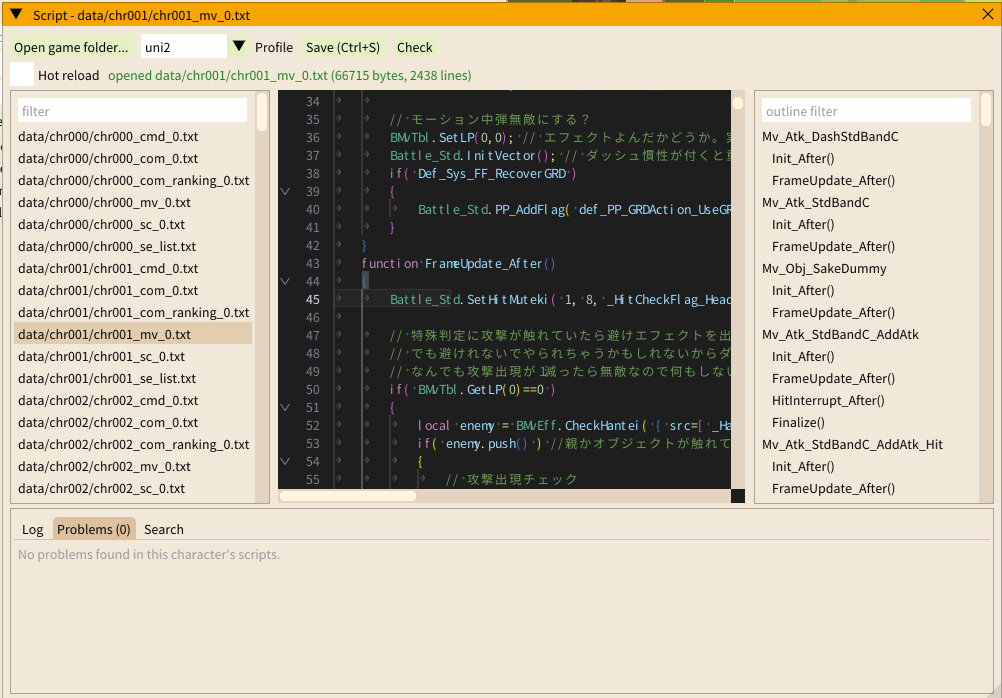
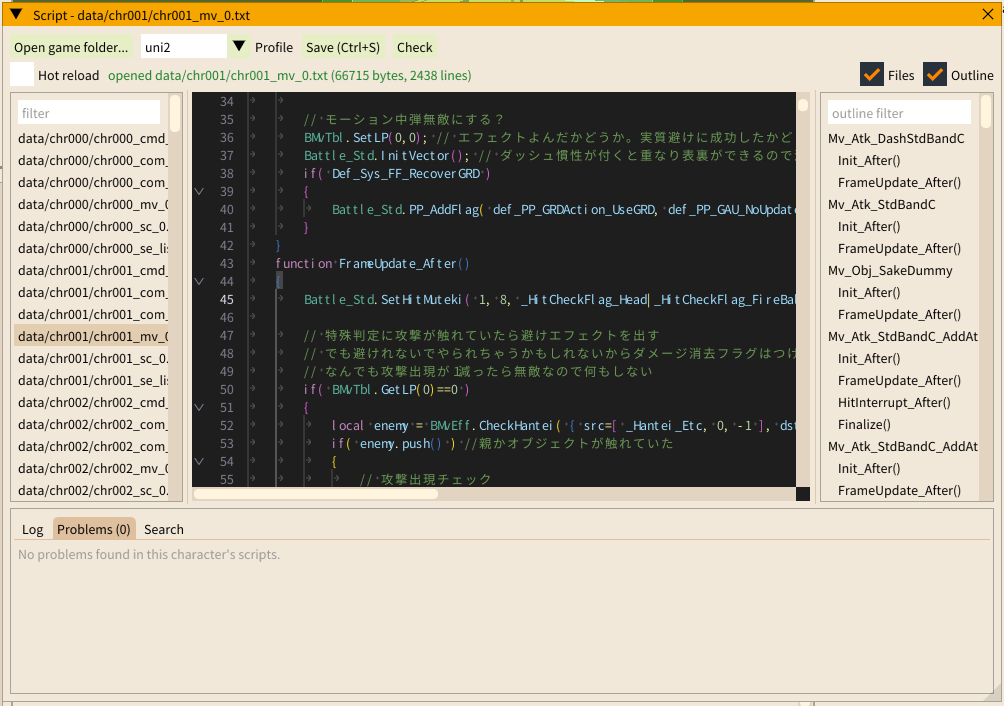
docs: layout sweep round 2 status, before/after sheets, PartSet shot script; showcase crop boxes for centred windows, feature shots re-cropped

Changed region(s): [[0.0, 0.0, 1.0, 1.0], [0.0309, 0.0, 0.2784, 0.0602]]

diff --git a/docs/showcase_2026-10-16/scripts/ui/crop_features.py b/docs/showcase_2026-10-16/scripts/ui/crop_features.py
@@ -1,19 +1,20 @@
 #!/usr/bin/env python3
 """crop_features.py <shot dir> <features dir>: cut each feature window out of the full-frame --ui-script capture.
-The boxes are the windows' rects in the 1884x961 client area that run_features.sh produces (ab_shot.sh 1900x1000 layout)."""
+The boxes are the windows' rects in the 1884x961 client area that run_features.sh produces (ab_shot.sh 1900x1000 layout).
+Since ui::FitNextWindow (layout sweep) the tool windows open centred on the work area; the pcmod export window keeps its spot."""
 import sys
 from PIL import Image
 
-BOXES = {   # name: (left, top, right, bottom); the squirrel hover box also covers the tooltip, the game link box the sprite
-    'feat_squirrel_hover': (58, 58, 1130, 756),
-    'feat_squirrel_problems': (58, 58, 1060, 756),
-    'feat_stage3d_uni2_align': (442, 100, 1442, 861),
-    'feat_stage3d_mbtl_align': (442, 100, 1442, 861),
-    'feat_cgm_uni2_palettes': (58, 58, 1261, 880),
-    'feat_cgm_uni2_textures': (58, 58, 1261, 880),
-    'feat_gamelink_panel': (60, 58, 1100, 700),
-    'pcmod_export_window': (98, 68, 1081, 950),
-    'pcmod_export_done': (98, 68, 1081, 950),
+BOXES = {   # name: (left, top, right, bottom); the squirrel hover box also covers the tooltip, the game link box is the panel only (it no longer sits over the sprite)
+    'feat_squirrel_hover': (440, 128, 1444, 834),
+    'feat_squirrel_problems': (440, 128, 1444, 834),
+    'feat_stage3d_uni2_align': (440, 98, 1444, 864),
+    'feat_stage3d_mbtl_align': (440, 98, 1444, 864),
+    'feat_cgm_uni2_palettes': (340, 68, 1544, 894),
+    'feat_cgm_uni2_textures': (340, 68, 1544, 894),
+    'feat_gamelink_panel': (620, 218, 1264, 742),
+    'pcmod_export_window': (98, 68, 1081, 956),
+    'pcmod_export_done': (98, 68, 1081, 956),
 }
 src, dst = sys.argv[1], sys.argv[2]
 for name, box in BOXES.items():

diff --git a/tools/ui/shots_layout/make_sheets.py b/tools/ui/shots_layout/make_sheets.py
@@ -1,10 +1,11 @@
 #!/usr/bin/env python3
-# make_sheets.py <out_dir> : before | after sheets (shrunk, palette PNG) from run_layout.sh's before / after folders
+# make_sheets.py <out_dir> [before_tag after_tag] : before | after sheets (shrunk, palette PNG) from run_layout.sh's before / after folders
 import sys, os
 from PIL import Image, ImageDraw
 W = '/mnt/c/dev/hantei-chan/work'; out = sys.argv[1]; os.makedirs(out, exist_ok=True)
+BT, AT = (sys.argv[2], sys.argv[3]) if len(sys.argv) > 3 else ('before', 'after')   # run_layout.sh tags
 for sz in ['1280x720', '1900x1000', '1920x1080']:
-    b, a = f'{W}/ab_layout_before_{sz}', f'{W}/ab_layout_after_{sz}'
+    b, a = f'{W}/ab_layout_{BT}_{sz}', f'{W}/ab_layout_{AT}_{sz}'
     for n in sorted(os.listdir(a)):
         if not n.startswith('L') or not n.endswith('.png') or not os.path.exists(f'{b}/{n}'): continue
         if n.startswith('L02') or n.startswith('L04') or n.startswith('L06') or n.startswith('L08'):

diff --git a/docs/ui/LAYOUT_AUDIT_2026-10-16.md b/docs/ui/LAYOUT_AUDIT_2026-10-16.md
@@ -26,13 +26,13 @@ Branch `ui/layout-sweep` (cut from `update/parity-1014`).
 | 6 | PAT editor (RBO / GOF2 / MBAACC .pat) | Tool pane (top right, 60% of the centre column) holds one help line; PartSet pane buttons clip ("Cle...", "Update fr...") in its 30% column; Shape pane is one button over a large empty area | wasted space, clipped | **Fixed** (dock): PAT layout keeps the left column at 30% and gives the Tool pane 36% instead of 60%. Shape pane emptiness remains (content is per-part) |
 | 7 | Right pane (AT / AS / AF / IF / effects) | All field widths are fixed px (`constexpr float width = 75.f` etc.), so a larger font (Preferences font size, high DPI) truncates every number | fixed px | **Fixed**: widths follow the font (`ui::Px`) |
 | 8 | Preferences (Saving and PAT editor) | Two full-width disabled help lines under Backup folder and one under Mouse buttons; fixed 120 / 260 px fields | long help, fixed px | **Fixed**: `(?)` tooltips, widths scale |
-| 9 | Right pane AT | ImGui's value-then-label convention with mixed multi-field rows ("Weak (6f) Hitstop 0 Cust HS 0 Cust BS"), label column not aligned between rows; JA labels clip at the pane edge at 1280 ("ガードフラグ") | alignment | Open: needs a per-section table conversion of frame_disp_at.h / frame_disp_as.h (large, high-touch file) |
-| 10 | Left pane | Empty region below the collapsed trees (no fill) at every size | empty region | Partly: column narrower (5). Defaulting a tree open would change behaviour, not done |
-| 11 | CG manager | Fixed widths (Filter 160, Min/Max side 70, Thumbnail 120, Palette 90) do not follow the font; JA labels of "Min side / Max side" crowd the filter row | fixed px | Open (cgm_window.cpp is being edited on fix/pat-ingame-proof; only the window size was changed here to keep that merge clean) |
-| 12 | Script panel (Squirrel) | Three columns fixed (file list, editor, outline) leave the editor at ~45% of the window at 1280 | proportion | Open |
-| 13 | Box pane | Box-type colour strip and the "Copy all / Paste all / Copy params ..." row wrap unevenly in JA at 1280 (two buttons per line) | wrap | Open (now taller, wraps without hiding the Timeline) |
+| 9 | Right pane AT | ImGui's value-then-label convention with mixed multi-field rows ("Weak (6f) Hitstop 0 Cust HS 0 Cust BS"), label column not aligned between rows; JA labels clip at the pane edge at 1280 ("ガードフラグ") | alignment | **Fixed (round 2)** for AT / AS / AF: `ui::BeginLabelForm / FormRow` (label column sized to the longest label, capped at 42% of the pane, wraps with a full-text tooltip on overflow), one label column per display, sub-headers (Hitstop, Damage, Proration, Vectors, Effects; Flags, State; Sprite, Animation, Transforms). Guard/Hit vector rows, UNI VectorTable names and JA hint kept. IF / EF smart UIs (effects/*.h, frame_disp_if.h, ~280 call sites) still value-then-label: open |
+| 10 | Left pane | Empty region below the collapsed trees (no fill) at every size | empty region | **Fixed (round 2)**: a Pattern list (clipper, follows the current pattern, click = same as the Pattern combo) fills the height left under the collapsed trees; nothing opens by default |
+| 11 | CG manager | Fixed widths (Filter 160, Min/Max side 70, Thumbnail 120, Palette 90) do not follow the font; JA labels of "Min side / Max side" crowd the filter row | fixed px | Open (cgm_window.cpp left for the CG manager follow-up) |
+| 12 | Script panel (Squirrel) | Three columns fixed (file list, editor, outline) leave the editor at ~45% of the window at 1280 | proportion | **Fixed (round 2)**: resizable table 18 / 64 / 18, Files / Outline toggles fold the side columns, editor takes the rest |
+| 13 | Box pane | Box-type colour strip and the "Copy all / Paste all / Copy params ..." row wrap unevenly in JA at 1280 (two buttons per line) | wrap | **Fixed (round 2)**: `ui::ButtonGrid` (src/ui/ui_layout2.h) equal-width cells, even rows; checkboxes on their own wrapping row. Colour strip unchanged |
 | 14 | Archive browser | Fine at all three sizes; the preview column keeps its proportion | - | No change |
-| 15 | han2 inspector / pac window / tool windows (tool_windows_impl.h) | Fixed `SetNextItemWidth(N)` in many places (cgm 29, tool windows 18, han2 15, fxr 15, png export 14, hmod 13) | fixed px | Open: replace with `ui::Px(N)` / tokens file by file |
+| 15 | han2 inspector / pac window / tool windows (tool_windows_impl.h) | Fixed `SetNextItemWidth(N)` in many places (cgm 29, tool windows 18, han2 15, fxr 15, png export 14, hmod 13) | fixed px | **Fixed (round 2)**: every positive `SetNextItemWidth/PushItemWidth(N)` in tool windows, png export, han2 pac / inspector, hmod, fxr (+ bg inspector, tag, authoring, pcmod export, cmd editor, game link, workspace hosts) goes through `ui::Px`. Some ImVec2 child sizes and the han2 frame-strip cards stay fixed |
 
 ## Shared helper
 
@@ -43,6 +43,14 @@ Branch `ui/layout-sweep` (cut from `update/parity-1014`).
 - `ui::HelpMarker(text)`: the `(?)` tooltip for long help.
 - `ui::BeginFormGrid / FormCell / EndFormGrid`: label-first cells in a table that reflows by width.
 
-## Remaining (not done in this pass)
+## Round 2 (branch `ui/layout-sweep2`)
 
-Items 9, 11, 12, 13 and 15 above.
+- PartSet pane (item 6): Clear pose / Update frame references / part buttons wrap with `ui::SameLineButton` instead of clipping (RBO ACOLYTE_F, `tools/ui/shots_layout/L_pat.txt`, since `C:\games\rbo_run` used by L_all.txt is gone).
+- Showcase crop boxes (`docs/showcase_2026-10-16/scripts/ui/crop_features.py`) re-measured for the centred windows; feature shots re-run and re-cropped.
+- Before / after sheets: `docs/ui/evidence/layout2_2026-10-16/` (`make_sheets.py <out> before2 after2`).
+
+## Remaining
+
+- Item 9 for IF / EF (frame_disp_if.h and effects/*.h smart UIs).
+- Item 11 (CG manager, after fix/pat-ingame-proof).
+- ImVec2 child sizes in tag / authoring / bg inspector / cmd editor, han2 frame-strip cards.
